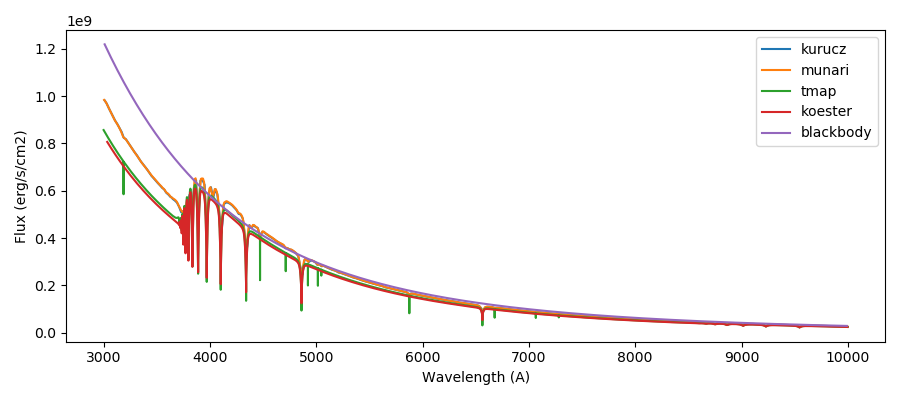
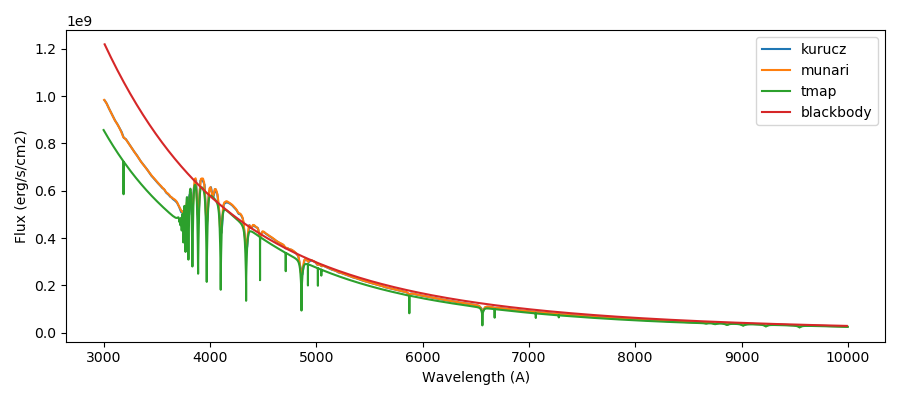
Feature: added option 'checkgrids' to the speedyfit commandline.
Other: Changed the included model grids from hard coded to having them included in a separate file that can be edited by the user.

Documentation: Updated the documentation to reflect this change.

diff --git a/speedyfit/model.py b/speedyfit/model.py
@@ -1,5 +1,6 @@
 import re
 import os
+import yaml
 import numpy as np
 
 from astropy.io import fits
@@ -10,8 +11,22 @@ __defaults__ = dict(grid='kurucz',
                     directory=os.environ.get('SPEEDYFIT_MODELS', None), )
 defaults = __defaults__.copy()
 
+# load a list of all available integrated grids
+try:
+    ifile = open("{}/grid_description.yaml".format(defaults['directory']))
+    grid_description = yaml.safe_load(ifile)
+    ifile.close()
+except:
+    grid_description = {}
 
-def check_grids():
+
+def check_grids(print_bands=False):
+    """
+    Check which atmospheric model grids are installed and can be used by speedyfit.
+
+    :param print_bands: If True, also print the photometric pass bands that are available in the integrated grid.
+    :type print_bands: bool
+    """
     print("Checking which atmosphere models are available...")
 
     if defaults['directory'] is not None:
@@ -22,7 +37,12 @@ def check_grids():
         print("\texport SPEEDYFIT_MODELS='<path to extracted atmosphere models>'")
         return
 
-    for grid in ['kurucz2', 'munari', 'tmap', 'koester', 'blackbody']:
+    if len(grid_description.keys()) == 0:
+        print("grid_description.yaml file not found or no models included in the description file.")
+        print("Please add a grid_description.yaml file in the SPEEDYFIT_MODELS directory.")
+        return
+
+    for grid in grid_description.keys():
         print(grid)
         gridpath = get_grid_file(integrated=False, grid=grid)
         if os.path.isfile(gridpath):
@@ -36,6 +56,16 @@ def check_grids():
         else:
             print("\t integrated: NOT FOUND")
 
+        if print_bands:
+            hdu = fits.open(gridpath)
+            bands = set([b.split('.')[0] for b in hdu[1].data.dtype.names if '.' in b])
+            for b in bands:
+                print("\t - " + b)
+
+
+        if 'info' in grid_description[grid]:
+            print('\t info: ' + grid_description[grid]['info'])
+
 
 def get_grid_file(integrated=False, **kwargs):
     grid = kwargs.get('grid', defaults['grid'])
@@ -43,21 +73,8 @@ def get_grid_file(integrated=False, **kwargs):
     if os.path.isfile(grid):
         return grid
 
-    if grid == 'kurucz' or grid == 'kurucz2': # kurucz2 is necessary for backwards compatibility
-        filename = 'kurucz93_z0.0_k2odfnew_sed'
-
-    elif grid == 'munari':
-        filename = 'Munari2005_extended'
-
-    elif grid == 'tmap':
-        filename = 'TMAP2012_sdOB_extended'
-
-    elif grid == 'koester':
-        filename = 'Koester_WD_DA_2014_extended'
-
-    elif grid == 'blackbody':
-        filename = 'blackbody_discint'
-
+    if grid in grid_description:
+        filename = grid_description[grid]['filename']
     else:
         raise ValueError('Grid name ({}) not recognized!'.format(grid))
 

diff --git a/speedyfit/speedyfit.py b/speedyfit/speedyfit.py
@@ -401,6 +401,11 @@ def perform_fit(args):
         pl.show()
 
 
+def check_grids(args):
+    print_bands = args.bands
+
+    model.check_grids(print_bands=print_bands)
+
 def main():
     parser = argparse.ArgumentParser(description="Speedyfit: obtaining and fitting photometric SEDs")
 
@@ -437,6 +442,16 @@ def main():
     fit_parser.add_argument('--noplot', dest='noplot', action='store_true',
                             help="Don't show any plots, only save to disk.")
     fit_parser.set_defaults(func=perform_fit)
+
+    # --check grids--
+    grid_parser = subparsers.add_parser('checkgrids', help='Check which model atmosphere grids are installed')
+
+    # grid_parser.add_argument('gridname', default=None,
+    #                         help='The name of the grid you want to check. If not provided all grids are listed.')
+    grid_parser.add_argument('--bands', dest='bands', action='store_true',
+                            help="List the photomtric bands included in the integrated lists.")
+    grid_parser.set_defaults(func=check_grids)
+
 
     args = parser.parse_args()
     args.func(args)

diff --git a/docs/userguide/plot_grid_ranges.py b/docs/userguide/plot_grid_ranges.py
@@ -22,7 +22,7 @@ from speedyfit.model import get_grid_file, get_table_single
 #
 # pl.show()
 
-grids = ['kurucz', 'munari', 'tmap', 'koester', 'blackbody']
+grids = ['kurucz', 'munari', 'tmap', 'blackbody']
 
 pl.figure(figsize=(9,4))
 

diff --git a/docs/userguide/command_line.rst b/docs/userguide/command_line.rst
@@ -6,10 +6,11 @@ Speedyfit can run in three different modes:
 - setup: create a setup file for an SED fit.
 - phot: dowload photometry for an object.
 - fit: fit a photometric SED based on a setup file.
+- checkgrids: check which model atmosphere grids are installed.
 
 Each mode has its own options, which are described below.
 
-Speedyfit setup
+speedyfit setup
 ---------------
 
 The 'setup' mode allows you to create a default setup file for the object that you want to fit. This setup file will
@@ -53,7 +54,7 @@ available in the setup file are given in :doc:`setup_file`.
     If provided, speedyfit setup will NOT include the Gaia DR 2 parallax as a constraint in the fitting process. By
     default the parallax is always included.
 
-Speedyfit phot
+speedyfit phot
 --------------
 
 The 'photometry' or 'phot' mode allows you do download photometry from several vizier and tap catalogs for the objects
@@ -82,7 +83,7 @@ object name to work.
     You can specify the name of the file in which speedyfit will store the downloaded photometry. If no name is given,
     the default name is: <object_name>.phot
 
-Speedyfit fit
+speedyfit fit
 -------------
 
 Finally, the 'fit' mode will use all information provided in the setup file together with the downloaded photometry to
@@ -102,3 +103,16 @@ collected photometry of your target object and describe where it can be found in
 
     When provided, speedyfit fit will NOT display any of the plots, and will only save them to file. By default all
     plots requested in the setup file are shown when the fit is finished.
+
+speedyfit checkgrids
+--------------------
+
+The 'checkgrids' mode will check and print which model atmosphere grids are installed and can be used by speedyfit.
+
+**speedyfit** checkgrids [*options*]
+
+.. program:: speedyfit checkgrids
+
+.. option:: --bands
+
+    When provided, speedyfit will also list the photometric bands included in the integrated grids.

diff --git a/docs/userguide/model_grids.rst b/docs/userguide/model_grids.rst
@@ -1,7 +1,7 @@
 Model atmosphere grids
 ======================
 
-Speedyfit is provided with 5 grids of model atmospheres. Below the range in effective temperature and surface gravity
+Speedyfit is provided with 4 grids of model atmospheres. Below the range in effective temperature and surface gravity
 of all grids is shown. You can make these plots with the following python code:
 
 .. code-block:: python
@@ -41,11 +41,6 @@ TMAP
 
 .. image:: figures/tmap.png
 
-Koester
--------
-
-.. image:: figures/koester.png
-
 Black body
 ----------
 
@@ -66,7 +61,7 @@ Lets compare a spectrum of each of these models at the same effective temperatur
     import numpy as np
     from speedyfit.model import get_table_single
 
-    grids = ['kurucz', 'munari', 'tmap', 'koester', 'blackbody']
+    grids = ['kurucz', 'munari', 'tmap', 'blackbody']
 
     pl.figure(figsize=(10,5))
 

diff --git a/docs/userguide/install.rst b/docs/userguide/install.rst
@@ -33,7 +33,7 @@ To check that speedyfit can find all models run:
 
 .. code-block:: bash
 
-   python -c "from speedyfit.model import check_grids; check_grids()"
+   speedyfit checkgrids
 
 Which if everything went well should give you the following output:
 
@@ -48,9 +48,6 @@ Which if everything went well should give you the following output:
             raw: available
             integrated: available
    tmap
-            raw: available
-            integrated: available
-   koester
             raw: available
             integrated: available
    blackbody
